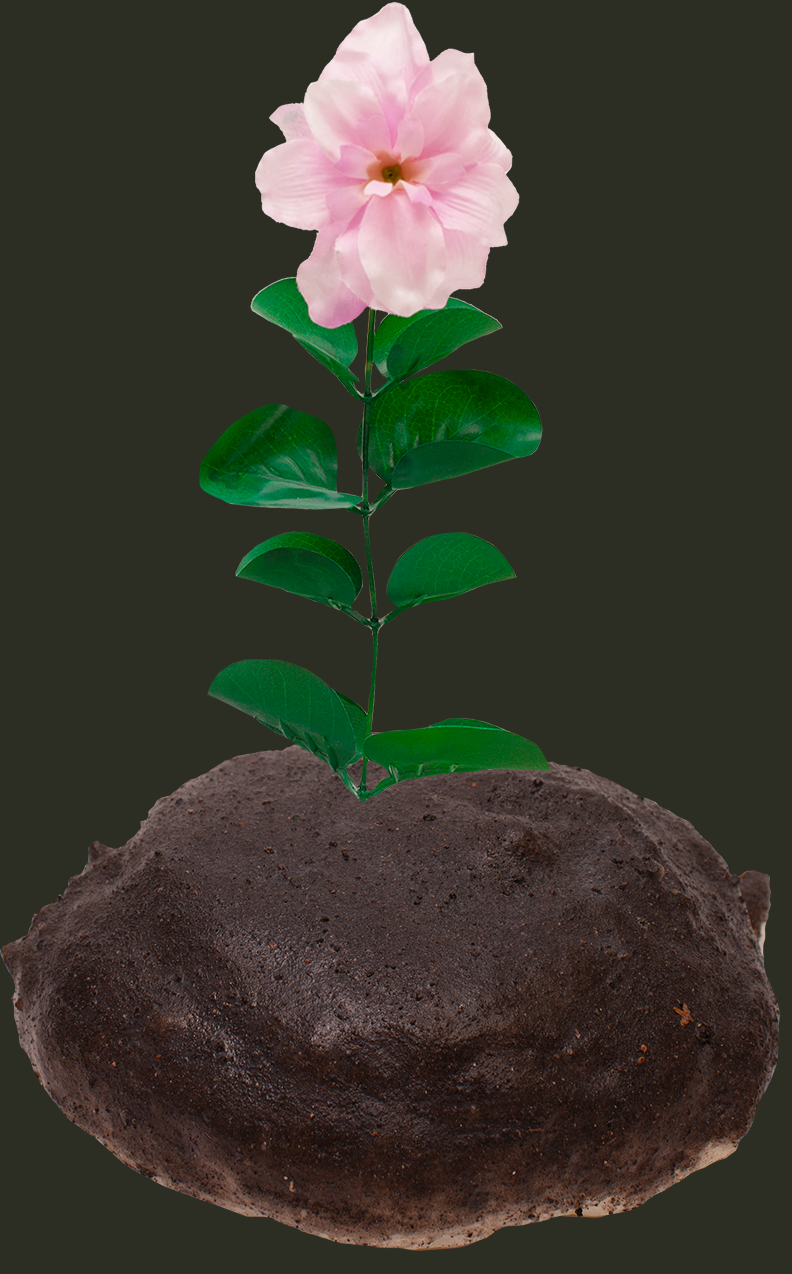
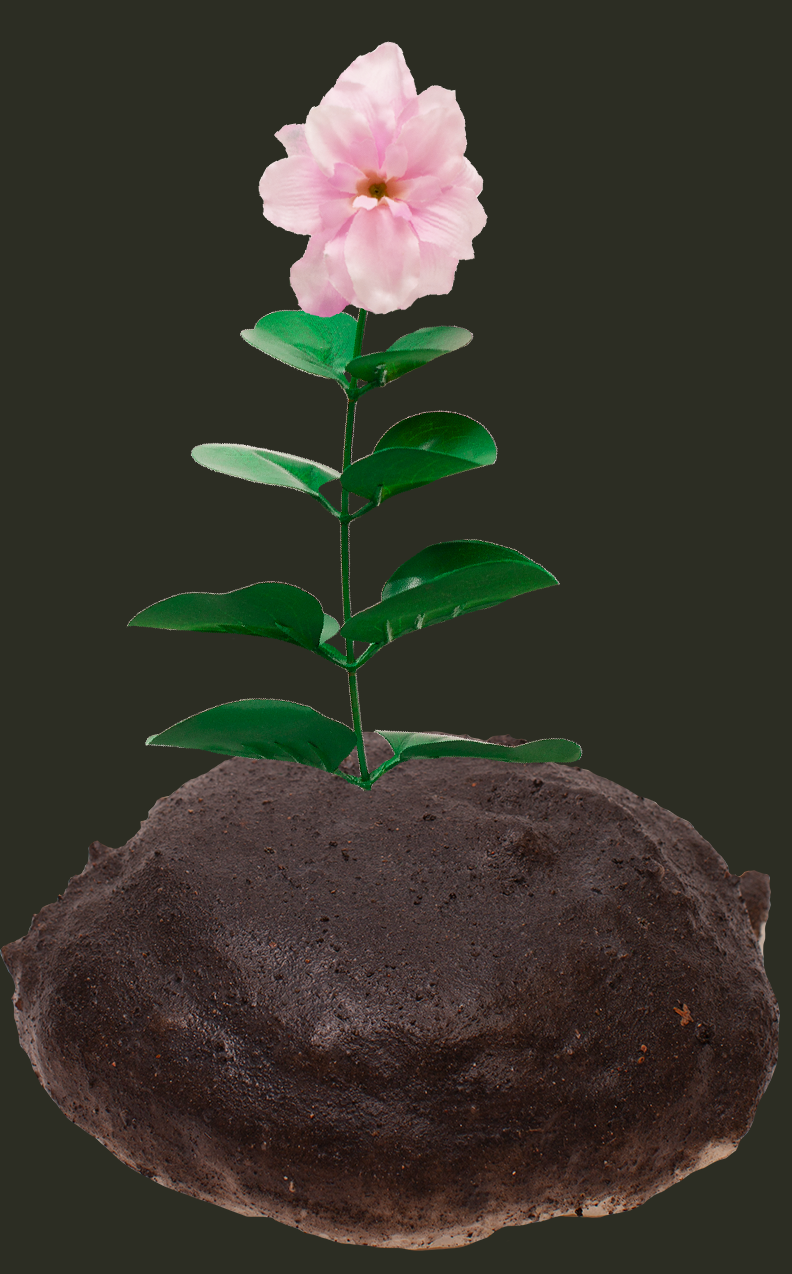
sataisīju puķu augšanu it kā visu, izveidoju 5ENG html js css failus, mainītas arī 2 pēdējās puķu bildes

Changed region(s): [[0.1515, 0.0, 0.7273, 0.6429]]

diff --git a/scripts/4.js b/scripts/4.js
@@ -2,30 +2,68 @@ $(document).ready(function(){
 	writethis("When I was thirteen \n I moved to the internet", ".story")
 
 	$(".story").click(function(){
-		writethis("I found a space \n where I didn't know anyone, \n and where no one knew me", ".story")
+		writethis("I found a space \n where I didn't know anyone,", ".story")
 
 	$(".story").click(function(){
-		writethis("and I started building myself \n from the ground up", ".story")
-		$("#viens").removeClass(".transparent")
-		$("#viens").addClass(".visible")
+		writethis("and where no one \n knew me", ".story")
+
 
 	$(".story").click(function(){
-		writethis("And, without really noticing it", ".story")
+		$(".story").css("margin-top", "11%")
+		writethis("and I started \n building myself \n from the ground up", ".story")
+		$("#viens").removeClass("transparent")
+		$("#viens").addClass("visible")
 
 	$(".story").click(function(){
-		writethis("my reality quickly became focused \n on crafting an image of myself ", ".story")
+		$(".story").css("margin-top", "11%")
+		writethis("And, without really \n noticing it", ".story")
+		$("#viens").removeClass("visible")
+		$("#viens").addClass("transparent2")
+		$("#divi").removeClass("transparent2")
+		$("#divi").addClass("visible2")
 
 	$(".story").click(function(){
-		writethis("for people I didn't know to look at", ".story")
+		$(".story").css("margin-top", "8%")
+		writethis("my reality \n quickly became focused \n on crafting an image of myself ", ".story")
+		$("#divi").removeClass("visible2")
+		$("#divi").addClass("transparent2")
+		$("#tris").removeClass("transparent2")
+		$("#tris").addClass("visible2")
 
 	$(".story").click(function(){
-		writethis("Every word I said and \n every picture I posted", ".story")
+		writethis("for people I didn't know \n to look at", ".story")
+		$(".story").css("margin-top", "6%")
+		$("#tris").removeClass("visible2")
+		$("#tris").addClass("transparent2")
+		$("#cetri").removeClass("transparent2")
+		$("#cetri").addClass("visible2")
 
 	$(".story").click(function(){
+		writethis("Every word I said \n and every picture I posted", ".story")
+		$(".story").css("margin-top", "1.2%")
+		$("#cetri").removeClass("visible2")
+		$("#cetri").addClass("transparent2")
+		$("#pieci").removeClass("transparent2")
+		$("#pieci").addClass("visible2")
+
+	$(".story").click(function(){
+		$(".story").css("margin-top", "1.2%")
 		writethis("was to build towards a weird \n romanticised version of myself", ".story")
+		$("#pieci").removeClass("visible2")
+		$("#pieci").addClass("transparent2")
+		$("#sesi").removeClass("transparent2")
+		$("#sesi").addClass("visible2")
+
 
 	$(".story").click(function(){
-		writethis("that was never really real", ".story")
+		$(".story").css("display", "none")
+		$(".links").css("display", "block")
+		writethis("that was never really real", ".links")
+		$("#sesi").removeClass("visible2")
+		$("#sesi").addClass("transparent2")
+		$("#septini").removeClass("transparent2")
+		$("#septini").addClass("visible2")
+	})
 
 	})
 

diff --git a/css/4.css b/css/4.css
@@ -41,7 +41,7 @@ html, body {
 
 a {
 text-decoration: none;
-color: #EC045C;
+color: #FFD4DB;
 }
 
 /*Te iet noformējuma lietas*/
@@ -58,17 +58,52 @@ color: #EC045C;
   height: auto;
   margin-top: 10%;
   display: block;
-
-  -webkit-transition: opacity 1s ease-in-out;
-  -moz-transition: opacity 1s ease-in-out;
-  -o-transition: opacity 1s ease-in-out;
-  transition: opacity 1s ease-in-out;
+  position: absolute;
+  margin-left: 35%;
 }
 
 .transparent{
-  opacity:1;
+  opacity:0;
+      -webkit-transition: opacity 1.5s ease-in-out;
+  -moz-transition: opacity 1.5s ease-in-out;
+  -o-transition: opacity 1.5s ease-in-out;
+  transition: opacity 1.5s ease-in-out;
+
 }
 
 .visible{
+      -webkit-transition: opacity 1.5s ease-in-out;
+  -moz-transition: opacity 1.5s ease-in-out;
+  -o-transition: opacity 1.5s ease-in-out;
+  transition: opacity 1.5s ease-in-out;
   opacity:1;
+
+}
+
+.transparent2{
+  opacity:0;
+      -webkit-transition: opacity 3s ease-in-out;
+  -moz-transition: opacity 3s ease-in-out;
+  -o-transition: opacity 3s ease-in-out;
+  transition: opacity 3s ease-in-out;
+
+}
+
+.visible2{
+      -webkit-transition: opacity 3s ease-in-out;
+  -moz-transition: opacity 3s ease-in-out;
+  -o-transition: opacity 3s ease-in-out;
+  transition: opacity 3s ease-in-out;
+  opacity:1;
+
+}
+
+.links {
+  display: none;
+   height: 10%;
+  font-size: 5vw;
+  margin-top: 2.5%;
+  margin-left:10%;
+  margin-right: 10%; 
+  max-width: 80%;
 }

diff --git a/4ENG.html b/4ENG.html
@@ -13,27 +13,27 @@
 		<img src="./images/pukeaug/1.png">
 	</div>
 
-	<div id="divi" class="pukeaug transparent">
+	<div id="divi" class="pukeaug transparent2">
 		<img src="./images/pukeaug/2.png">
 	</div>
 
-	<div id="tris" class="pukeaug transparent">
+	<div id="tris" class="pukeaug transparent2">
 		<img src="./images/pukeaug/3.png">
 	</div>
 
-	<div id="cetri" class="pukeaug transparent">
+	<div id="cetri" class="pukeaug transparent2">
 		<img src="./images/pukeaug/4.png">
 	</div>
 
-	<div id="pieci" class="pukeaug transparent">
+	<div id="pieci" class="pukeaug transparent2">
 		<img src="./images/pukeaug/5.png">
 	</div>
 
-	<div id="sesi" class="pukeaug transparent">
+	<div id="sesi" class="pukeaug transparent2">
 		<img src="./images/pukeaug/6.png">
 	</div>
 
-	<div id="septini" class="pukeaug transparent">
+	<div id="septini" class="pukeaug transparent2">
 		<img src="./images/pukeaug/7.png">
 	</div>
 
@@ -42,8 +42,11 @@
 </div>
 
 <div class="teksts">
+
+	
 	
 	<div class="story new-line"></div>
+	<a href="./5ENG.html"><div class="links new-line"></div></a>
 
 </div>
 

diff --git a/css/5.css b/css/5.css
@@ -1,0 +1,53 @@
+html, body {
+  position: absolute;
+    margin: 0px;
+    overflow: hidden;
+    top: 0px;
+    bottom: 0px;
+    width: 100%;
+    height: 100%;
+    font-family: diplomdarbs;
+    text-align: center;
+}
+
+@font-face {
+    font-family: "diplomdarbs";
+    src: url("./fonti/diplomdarbs.ttf");
+}
+
+/* te sākās teksta lietas */
+
+.teksts {
+    position: absolute;
+    width: 100%;
+    height: 100%;
+    text-align: center;
+        color: #03140D;
+}
+
+.story {
+    height: 10%;
+    display: block;
+  font-size: 5vw;
+  margin-top: 15%;
+  margin-left:10%;
+  margin-right: 10%; 
+  max-width: 80%;
+}
+
+.new-line {
+  white-space: pre-line;
+}
+
+a {
+text-decoration: none;
+color: #EC045C;
+}
+
+/*Te iet noformējuma lietas*/
+
+.fons {
+  position: absolute;
+    width: 100%;
+    height: 100%;
+}

diff --git a/5ENG.html b/5ENG.html
@@ -1,0 +1,28 @@
+<!DOCTYPE html>
+<html>
+<head>
+
+<link rel="stylesheet" href="./css/5.css">
+
+	<title>piektais Eng</title>
+</head>
+<body>
+
+<div class="fons"></div>
+
+<div class="teksts">
+	
+	<div class="story new-line"></div>
+
+</div>
+
+
+
+ <script src="https://code.jquery.com/jquery-3.6.0.js" integrity="sha256-H+K7U5CnXl1h5ywQfKtSj8PCmoN9aaq30gDh27Xc0jk=" crossorigin="anonymous"></script>
+
+  <script src="./scripts/typewriter.js"></script>
+
+ <script src="./scripts/5.js"></script>
+
+</body>
+</html>
